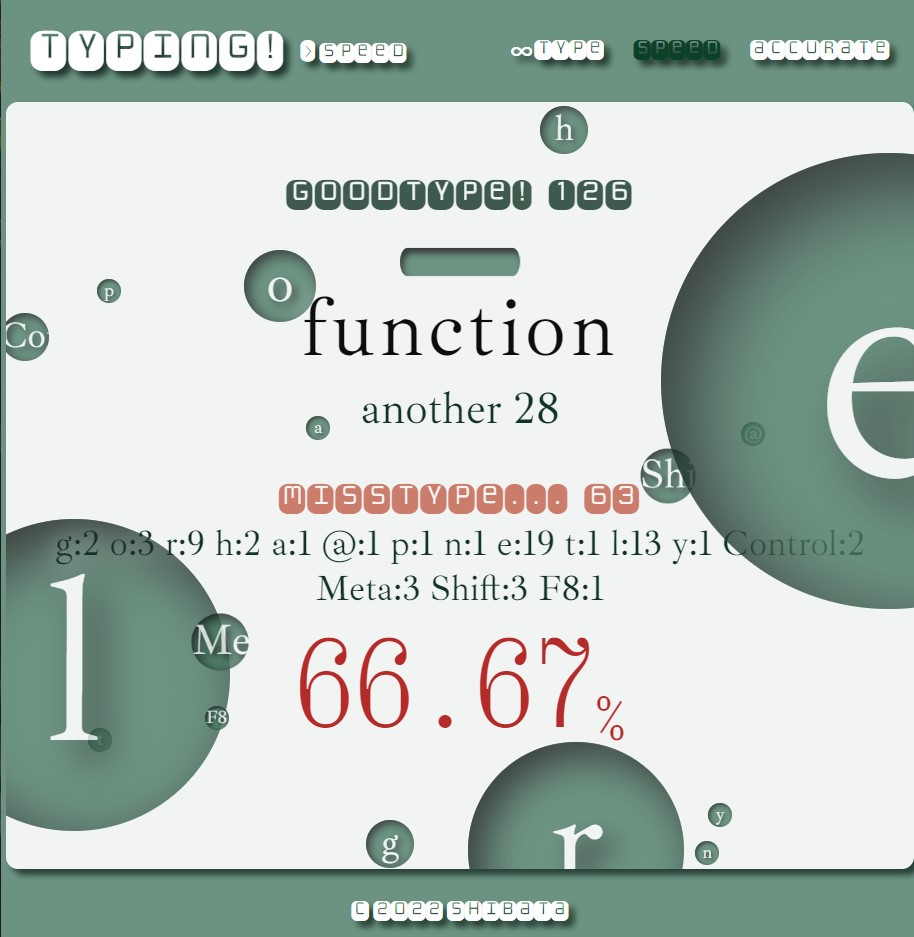
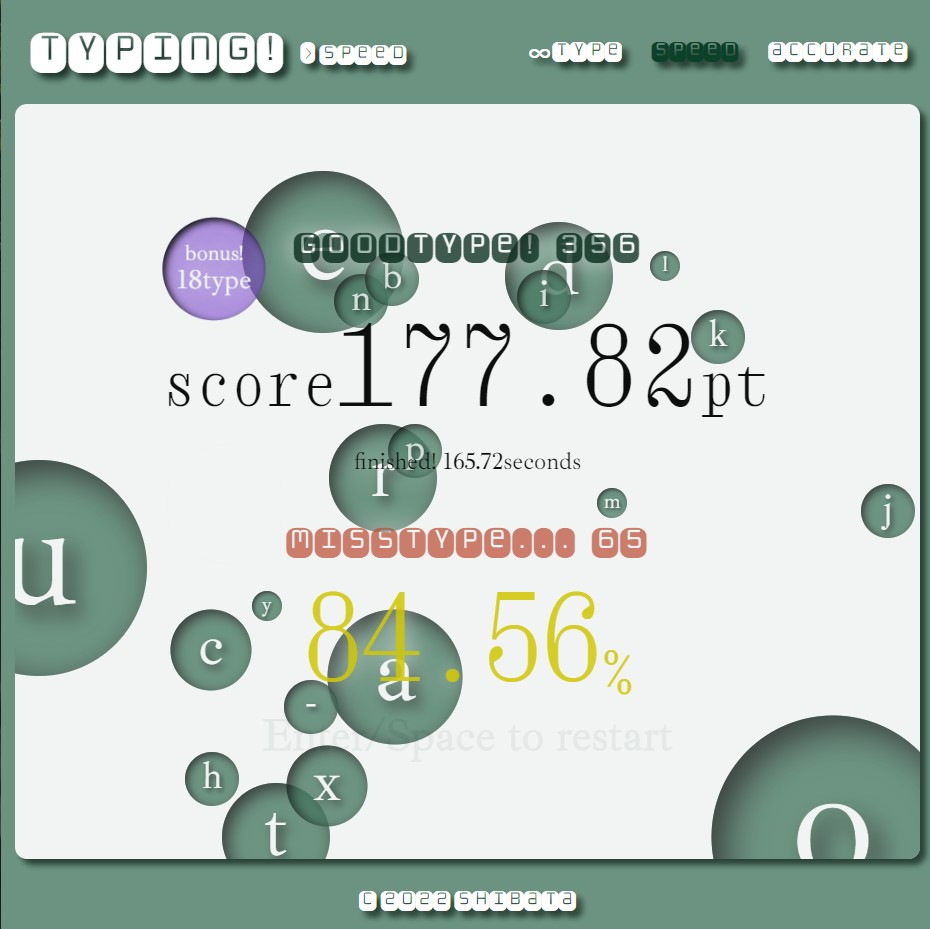
Add files via upload

diff --git a/js/main.js b/js/main.js
@@ -16,7 +16,7 @@
     var s = document.getElementsByTagName('script')[0];
     s.parentNode.insertBefore(wf, s);
   })();
-
+  
   //DOMの取得
   const typed = document.getElementById("typed");
   const untype = document.getElementById("untype");
@@ -29,7 +29,9 @@
   const hambarger = document.getElementById("hambarger");
   const overlay = document.getElementById("overlay");
   const close = document.getElementById("close");
-
+  const restart = document.getElementById("restart");
+  const timer = document.getElementById("timer");
+  
   //サウンドエフェクト
   const typeSound = new Audio("sound/カタッ(Enterキーを押した音).mp3");
   typeSound.volume = 0.4;
@@ -37,22 +39,64 @@
   resetSound.volume = 0.8;
   const bubbleSound = new Audio("sound/パッ.mp3");
   bubbleSound.volume = .9;
-
+  const finishSound = new Audio("sound/クイズ正解3.mp3");
+  
   //ミスタイプのキーリスト
   const missType = [];
-
+  
+  //時間関係
+  let startTime;
+  let isTyping = false;
+  
+  //出題数(文字数)
+  const QuestionLength = 350;
+  
   //正誤カウント
   let scoreCount = 0;
   let badCount = 0;
   let accuracyRate;
   let continuousCorrect = 0;
-
+  let bonusPoint = 0;
+  
   //問題のセット
   function setQuestion(){
-    const q = questions[Math.floor(Math.random() * questions.length)];
+    const q = questions.splice(Math.floor(Math.random() * questions.length),1)[0];
     untype.textContent = q.word;
     typed.textContent = "";
     mean.textContent = q.mean;
+    setTimer(untype.textContent.length);
+  };
+  
+  //時間制限
+  function setTimer(time){
+    const timerChild = document.createElement("div");
+    timerChild.classList.add("timer");
+    timerChild.style.width = `${time * 12 + 15}px`;
+    timer.appendChild(timerChild);
+    //ここで制限時間指定
+    timerChild.style.animation = `timerBifore .27s 0s forwards,timerAfter ${time * .55 + 1}s ease-in-out .4s`;
+    //アニメーションの終了と同時に次の問題へ
+    setTimeout(()=>{
+      timerChild.addEventListener("animationend",()=>{
+        timer.removeChild(timer.firstChild);
+        if(untype.textContent.length === 0){
+          return;
+        }
+        //出題数に達していて、現在の問題を打ち終わったら終了
+        if((scoreCount >= QuestionLength) && (untype.textContent.length === 0)){
+          finish();
+          return;
+        };
+        //問題が底をついたら終了
+        if(questions.length === 0){
+          finish();
+          return;
+        };
+        setQuestion();
+        bubbleSound.currentTime = 0;
+        bubbleSound.play();
+      });
+    },500);
   };
 
   //ボーナスアニメーション
@@ -86,7 +130,7 @@
     bubbleSound.currentTime = 0;
     bubbleSound.play()
   };
-
+  
   //パーセンテージの表示
   function renderRate(){
     accuracyRate = (scoreCount / (scoreCount + badCount) * 100).toFixed(2);
@@ -99,6 +143,21 @@
     } else {
       rate.classList.add("dead");
     };
+  };
+  
+  //終了
+  function finish(){
+    isTyping = false;
+    let finishTime = Date.now() - startTime;
+    typed.textContent = "";
+    const finishScore = ((scoreCount + continuousCorrect - (finishTime / 1000)) * (accuracyRate / 100)).toFixed(2);
+    untype.textContent = finishScore;
+    finishSound.currentTime = 0;
+    finishSound.play();
+    timer.classList.add("hidden");
+    untype.classList.add("score");
+    restart.classList.add("show");
+    mean.textContent = `finished! ${(finishTime / 1000).toFixed(2)}seconds`;
   };
   
   //ミスしたキーのバルーンを作成
@@ -130,7 +189,7 @@
     });
     balloonRoom.appendChild(balloon);
   };
-
+  
   //ハンバーガーメニュー
   hambarger.addEventListener("click",()=>{
     overlay.classList.add("show");
@@ -140,9 +199,12 @@
     overlay.classList.remove("show");
     hambarger.classList.remove("hidden");
   });
-
+  
   //キーボードを叩いたら
   window.addEventListener("keydown",(e)=>{
+    if(!isTyping){
+      return;
+    };
     //ハンバーガーメニューを開いていたらリターン
     if(overlay.className === "show"){
       return;
@@ -152,7 +214,7 @@
       //untypeから削ってtypedに足す
       typed.textContent += "_";
       untype.textContent = untype.textContent.slice(1);
-
+  
       //スコアを加点
       scoreCount++;
       continuousCorrect++;
@@ -161,27 +223,35 @@
       //連続正解したらボーナス(10の倍数ごと)
       if((continuousCorrect % 10) == 0){
         getBonus(continuousCorrect / 10);
+        bonusPoint += (continuousCorrect / 10);
       };
       //文字を跳ねさせる
       score.classList.add("pyon");
       score.addEventListener("animationend",()=>{
         score.classList.remove("pyon");
       });
-
+  
       //タイプ音を鳴らす
       typeSound.currentTime = 0;
       typeSound.play();
-
+  
       //もしuntypeが無くなったら次の問題へ
       if(untype.textContent.length === 0){
+        timer.removeChild(timer.firstChild);
+        //出題数に達したら終了
+        if((scoreCount > QuestionLength) || (questions.length === 0)){
+          finish();
+          return;
+        };
         setQuestion();
         resetSound.currentTime = 0;
         resetSound.play();
       };
-
+  
     } else { //ミスタイプした場合
       //ミスタイプに加点
       badCount++;
+      continuousCorrect = 0;
       bad.textContent = badCount;
       renderRate();
       //文字を跳ねさせる
@@ -192,7 +262,7 @@
       //ブザーを鳴らす
       bubbleSound.currentTime = 0;
       bubbleSound.play();
-
+  
       //ミスタイプのキーをカウント
       if(missType.find((v) => v.key === e.key)){ //すでにあるなら加点
         missType.find((v) => v.key === e.key).num++;
@@ -210,8 +280,26 @@
       };
     };
   });
-
+  
   //始めの問題をセット
-  setQuestion();
+  window.addEventListener("keydown",(e)=>{
+    if(isTyping){
+      return;
+    };
+    //Enter/Space to restart
+    if(!(e.key === " " || e.key === "Enter")){
+      return;
+    };
+    //終了していたらリロード
+    if((scoreCount > QuestionLength) || (questions.length === 0)){
+      location.reload();
+      return;
+    };
+    setQuestion();
+    startTime = Date.now();
+    isTyping = true;
+    resetSound.currentTime = 0;
+    resetSound.play();
+  });
 
 })();

diff --git a/js/questions.js b/js/questions.js
@@ -76,9 +76,9 @@ const questions = [
     mean : "要素の透過率を指定する為のプロパティ"},
   {word : "z-index",
     mean : "要素の重なりの優先度を指定する為のプロパティ"},
-  {word : "@keyframes",
+  {word : "keyframes",
     mean : "詳細にアニメーションを設定できるアットルール"},
-  {word : "@media",
+  {word : "media",
     mean : "画面のサイズに合わせてcssの適用を変化させるアットルール"},
 
   //javascript
